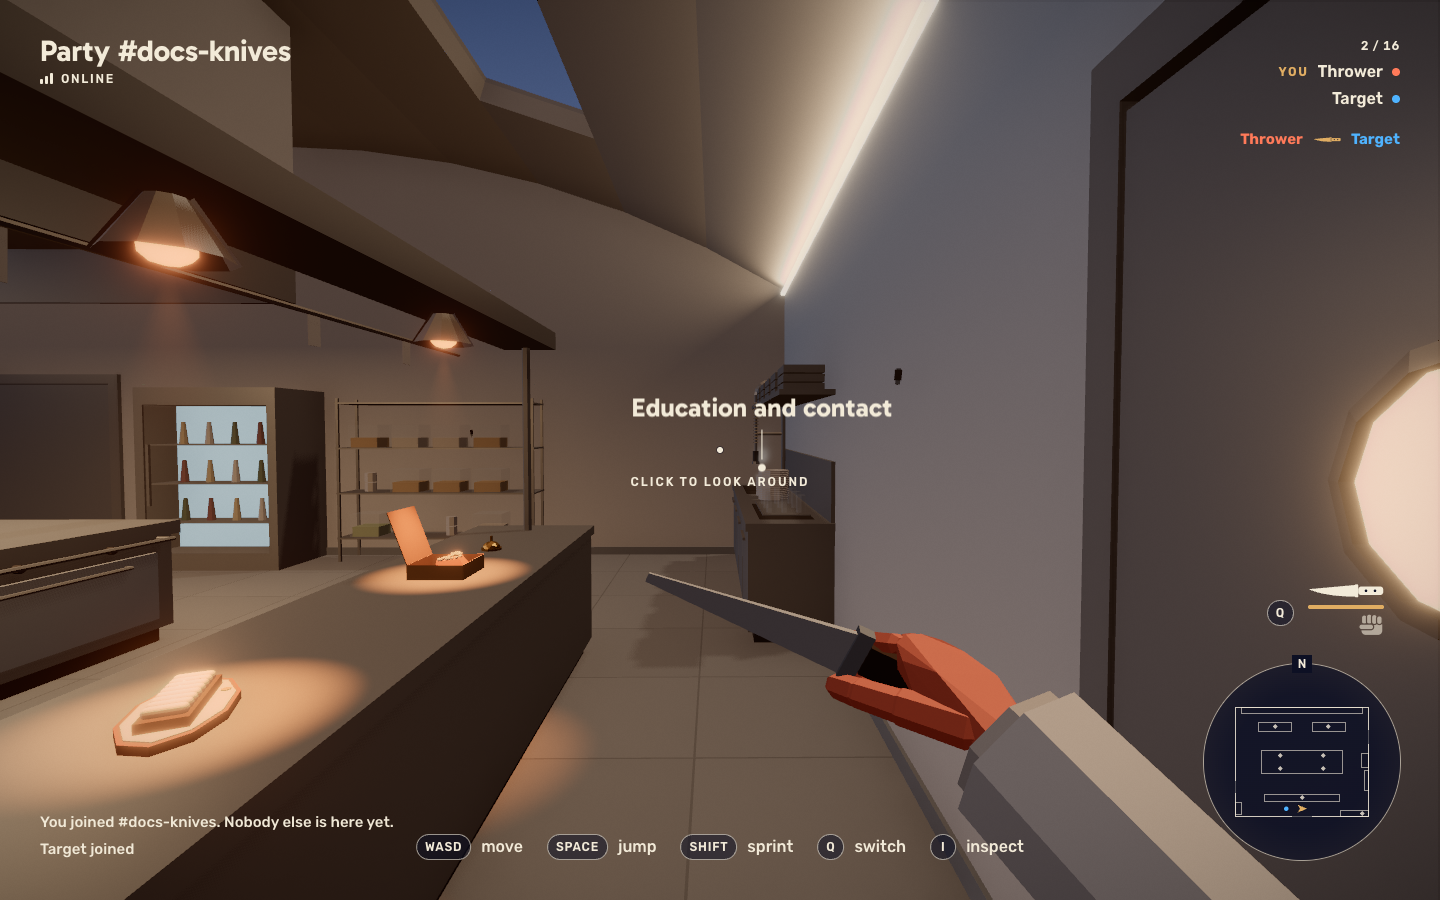
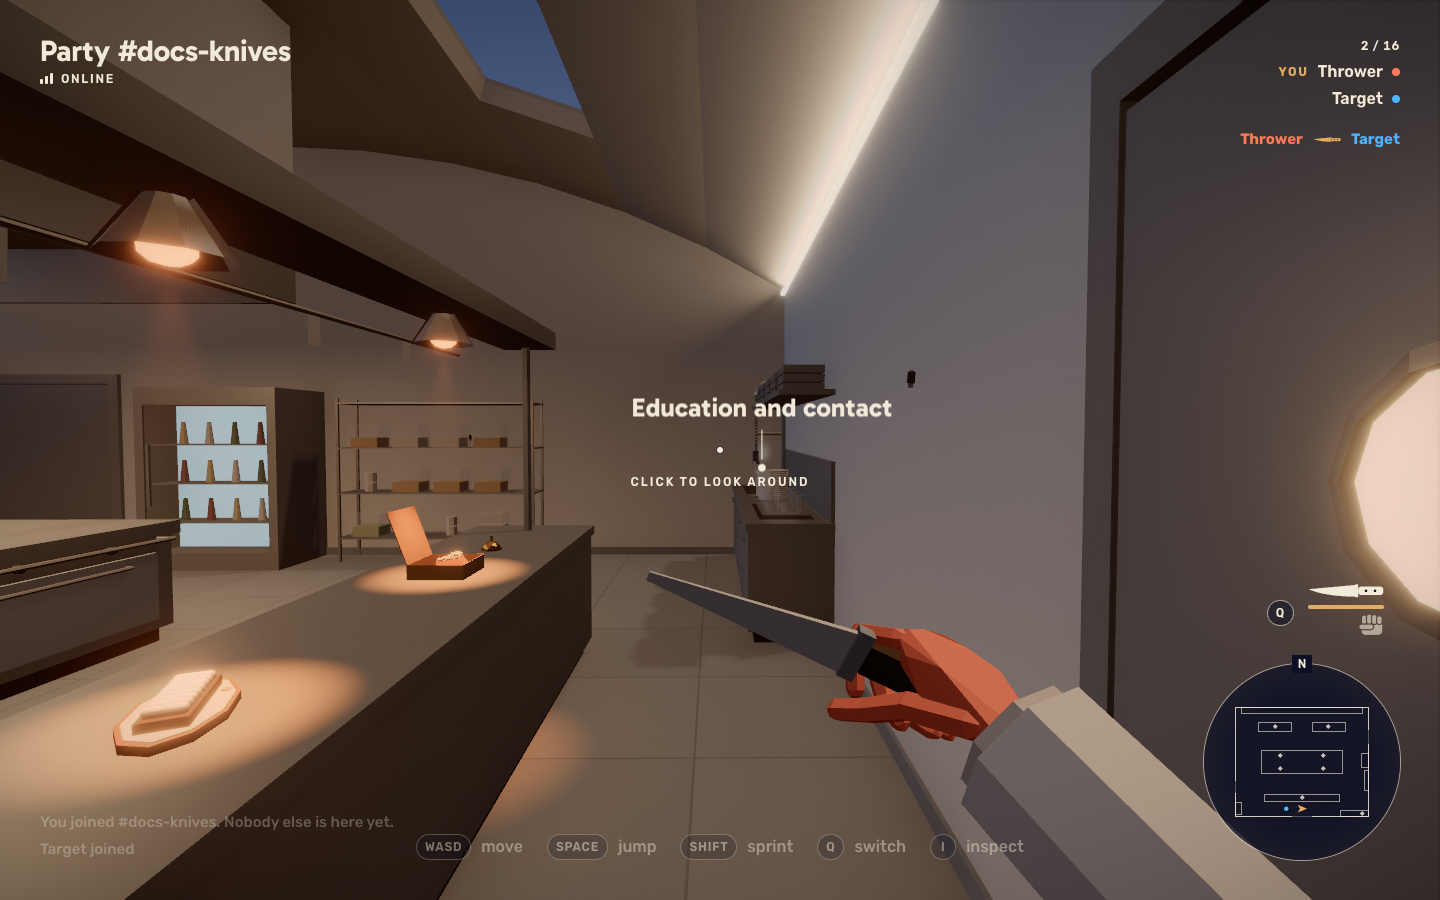
Write up keeping the knife clear of the hand: the measure, the causes, the finger spins, hinges and staged cuts, the looser grip for a turned knife, the test and what is left, progress, and the inspect screenshot with the looser grip

diff --git a/DECISIONS.md b/DECISIONS.md
@@ -748,3 +748,32 @@ From a review of `infra/` and `scripts/`; nothing was deployed and no AWS call w
 - **Dead content went**: the site's tagline and world name, the stations' French names and kickers, and the portfolio sections' kickers and colors, which nothing showed.
   A dish's restaurant is its `place`; the French names stay as a comment by each station; portfolio sections are `LoreSection`, and station and dish entries `LoreEntry`, which adds the light's color the world reads.
 - Left for Daniel: the two `TODO(daniel)` lines, and the "pending for NeurIPS and Nature" and "pending for AAAI and AISTATS" wording.
+
+### The knife clear of the hand (2026-10-10)
+
+- **Daniel saw knives phase through the hand in their animations, and they did, through its middle.**
+  Every knife was stepped through its draw, idle, inspect, throw and redraw, a switch to the fist and back, and every way one cuts another short, and each frame measured how deep the knife as drawn reaches into the hand as skinned: up to 13 mm, through the middle of the palm, for 11 of the 12 knives.
+  Rendered on the real GPU at those frames, the karambit's and the bayonet's handles lay inside the open palm, and folding blades crossed the fingers.
+- **Every knife turns end over end only on the index finger, the hand pointing and the other fingers folded into a fist behind it**, by its ring, or by its spine above the grip a finger's thickness off it.
+  The flips had turned about the grip, inside the fist, where a blade's plane holds the palm, so no opening of the fingers could clear it; `knifeMoves.ts` already said the bayonet and the M9 flip "about the fingers".
+  A knife spinning on a finger turns across it, so a fist behind the spin is clear of it.
+  `hang` is now the knife's way from its place in the grip onto the index finger as the finger is this frame: it waits while the hand opens, swings out from the palm and round to the finger's line in front of the fingertip as the fingers fold, the thumb later, and comes onto the finger along it, a ring over the fingertip.
+  The karambit's ring, on its finger already, slides out along it as the finger straightens, its handle turning out of the fist before the fingers fold.
+  Keys turn a knife end over end only on the finger and carry it between the grip and the finger only upright; the idles' small rocks of the knife in the fist are rocks of the wrist now.
+- **Folding blades and the butterfly's handle are hinges, not turns.**
+  A cut unwound them the shorter way round, which for a blade shut at half a turn is through the palm, and carried a blade flicked open on past its stop; hinges blend by position only now.
+  The hand lets go while a hinge is open, the thumb lifted straight off the fist, where it had swung toward the palm, into the handle.
+  The butterfly shuts the way round that opens away from the palm and swings its free handle back the way it went; the flip knife and the stiletto turn back before folding in their inspects, and the butterfly opens before it is turned over, so nothing folds round through the thumb.
+- **A cut gives the knife half a second, in two halves when it moves between the grip and the finger**: off the finger it settles upright on it, from wherever its spin coasts to, and then comes back into the hand; onto it, it gets there and then turns.
+  A knife thrown or put away mid-spin goes from the finger, and one on the finger headed back onto it stays there.
+  Each cut aims at where the arm is actually going once blended, worked out after what follows is set up, so a knife drawn back up mid-switch goes onto the finger before it spins.
+- **Turned about its length, a knife is held looser**: each finger round the widest its part of the handle gets as it turns, a guard beside it included, and the hand set back to suit, from a quarter turn until it is back the way it rests.
+  A handle deeper than it is wide had turned its corners into the palm and fingers; riding the knife out from the palm instead only moved them into the fingers.
+- **The skeleton knife's loop takes the finger it is spun on**: its hole was 8.2 mm across the hand's scale, under the index finger's 8.5, and is 9.5 now.
+- **Tried and dropped**: turning the arm while a knife spins on the finger, to show the spin face on.
+  The finger points into the screen, so the spin is a pinwheel behind the fist, its blade above it half of each turn; turned, the spin was seen edge on.
+- **The deepest a knife reaches into the hand is now 6.6 mm, and no knife reaches more than 2.2 mm deeper than its own grip at rest.**
+  The grips themselves sit up to 6.1 mm into the inside of the fist (the chef's knife's bolster under the index finger), unseen: fingers solved round a circle between a handle's depth and width press into a handle that is not round, and into the bands and guards proud of it; that is each knife's floor, and is unchanged.
+  `viewmodelClearance*.test.ts` checks every knife, move and cut at 60 Hz, counting what is in view: never more than 2.5 mm deeper than its grip at rest, nor 7 mm anywhere; on the old animations 11 of the 12 knives fail it, the deepest 12.9 mm.
+  What is left is brief: a trip to the finger can brush a finger it passes for a frame or two (the karambit's ring past the middle finger), and a closed flip knife floats in the opened hand while it folds.
+- Nothing networked changed; other cooks never saw the inspect.

diff --git a/PROGRESS.md b/PROGRESS.md
@@ -115,6 +115,13 @@ The full definition of done passes from a fresh clone: `npm install`, `npm run l
 - The words agree everywhere (party code, Leave the kitchen, Plain portfolio, the black truffle croissant, the real controls), the portfolio's contact links are text links, and dead content and styles are gone.
 - Lint, typecheck, 954 unit tests, 40 E2E tests and the build pass.
 
+### The knife clear of the hand (2026-10-10)
+
+- Knives no longer pass through the hand on screen: measured every frame of every knife's moves and cuts, the knife reached up to 13 mm into the hand, through the palm, for 11 of 12 knives; now 6.6 mm at most, never more than 2.2 mm past the knife's own grip.
+- Every knife turns end over end on the index finger, the hand pointing, by its ring or its spine; folding blades and the butterfly's handle swing as hinges through a hand that lets go; a knife cut short mid-spin settles upright on the finger before coming back; a knife turned in the hand is held looser; the skeleton knife's loop takes the finger.
+- `viewmodelClearance*.test.ts` checks every knife, move and cut; it fails on the old animations.
+- Lint, typecheck, 966 unit tests, 40 E2E tests and the build pass.
+
 ### How to run it
 
 ```bash
